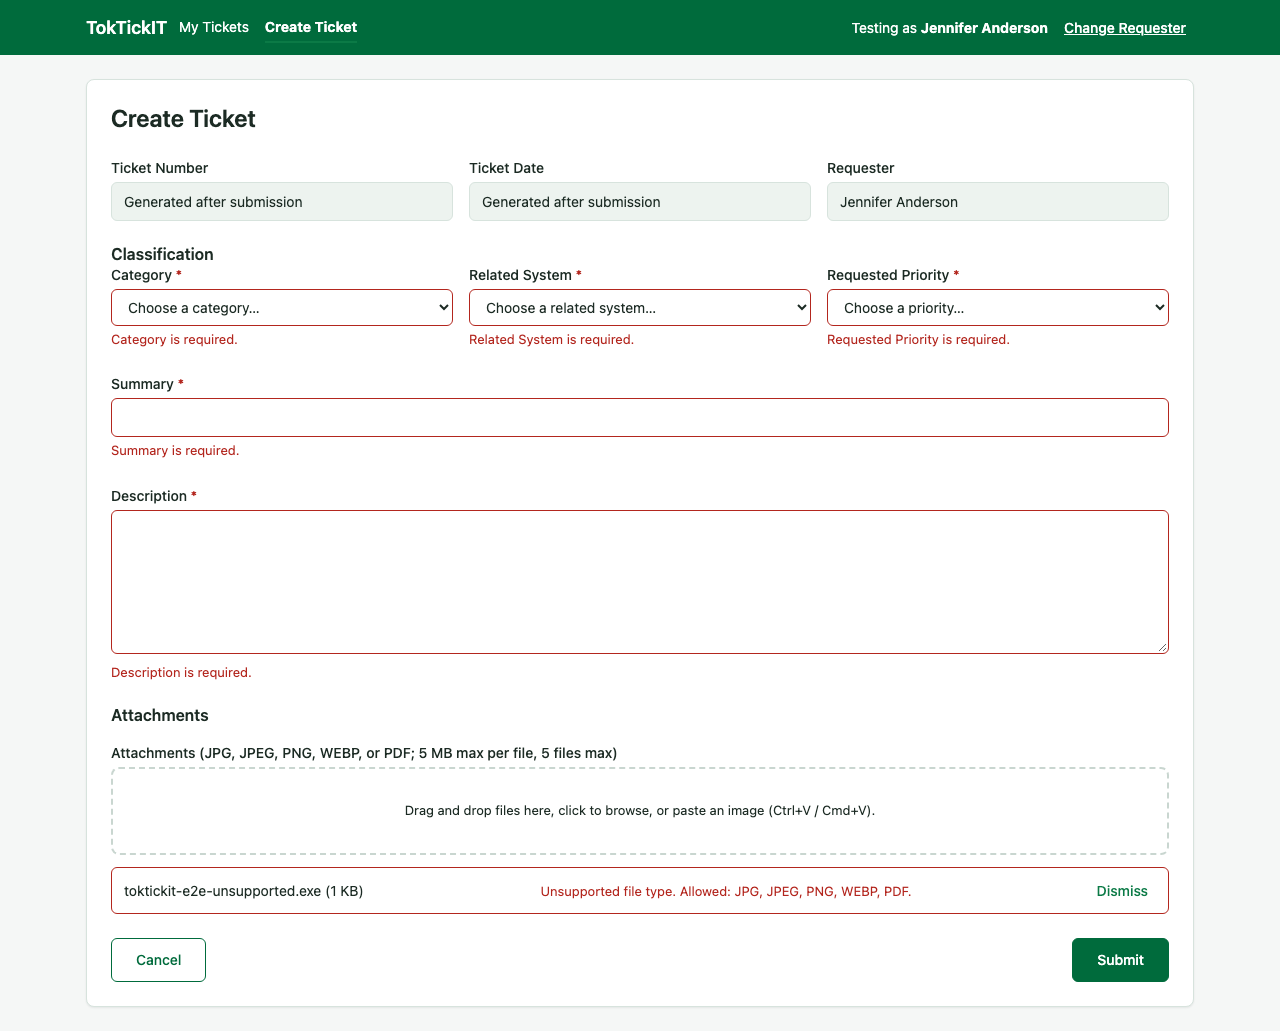
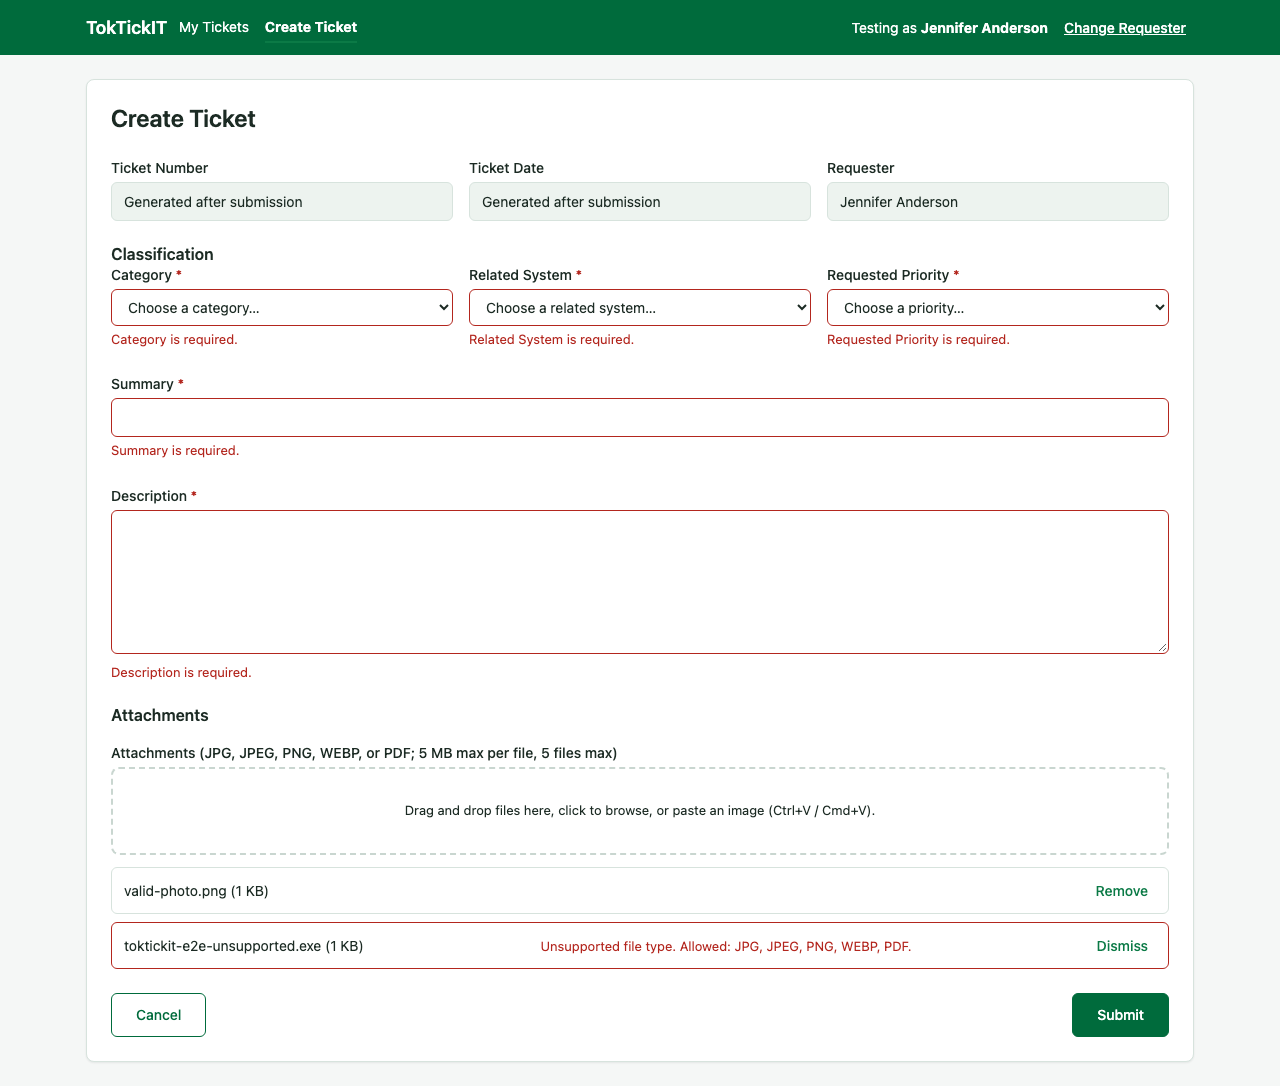
test: show a valid attachment alongside the rejected one in the invalid-attachment screenshot
Section 14 asks for one valid and one invalid attachment in the same
piece of evidence; the capture only had the rejected file.

diff --git a/e2e/lab-02/screenshots.spec.ts b/e2e/lab-02/screenshots.spec.ts
@@ -86,12 +86,16 @@ test.describe('Screenshot audit: Create Ticket', () => {
     await expect(page.getByText('Summary is required.')).toBeVisible()
     await page.screenshot({ path: shot('create-ticket', 'validation-failure.png'), fullPage: true })
 
-    // Invalid attachment (AC-11/AC-12, client-side): an unsupported file type.
+    // Invalid attachment (AC-11/AC-12, client-side): one valid file alongside
+    // one unsupported file type, so the accept/reject contrast is visible in
+    // a single screenshot (Section 14: "one valid and one invalid attachment").
     await page.getByTestId('attachment-dropzone').click()
-    await page.locator('#attachments').setInputFiles(UNSUPPORTED_FIXTURE)
+    await page.locator('#attachments').setInputFiles([PHOTO_FIXTURE, UNSUPPORTED_FIXTURE])
     await expect(page.getByText(/unsupported file type/i)).toBeVisible()
+    await expect(page.getByText('valid-photo.png')).toBeVisible()
     await page.screenshot({ path: shot('create-ticket', 'invalid-attachment.png'), fullPage: true })
     await page.getByRole('button', { name: 'Dismiss' }).click()
+    await page.getByRole('button', { name: 'Remove' }).click()
 
     // Fill a valid form for the submitting/success/API-failure states below.
     await waitForCreateTicketReady(page)
